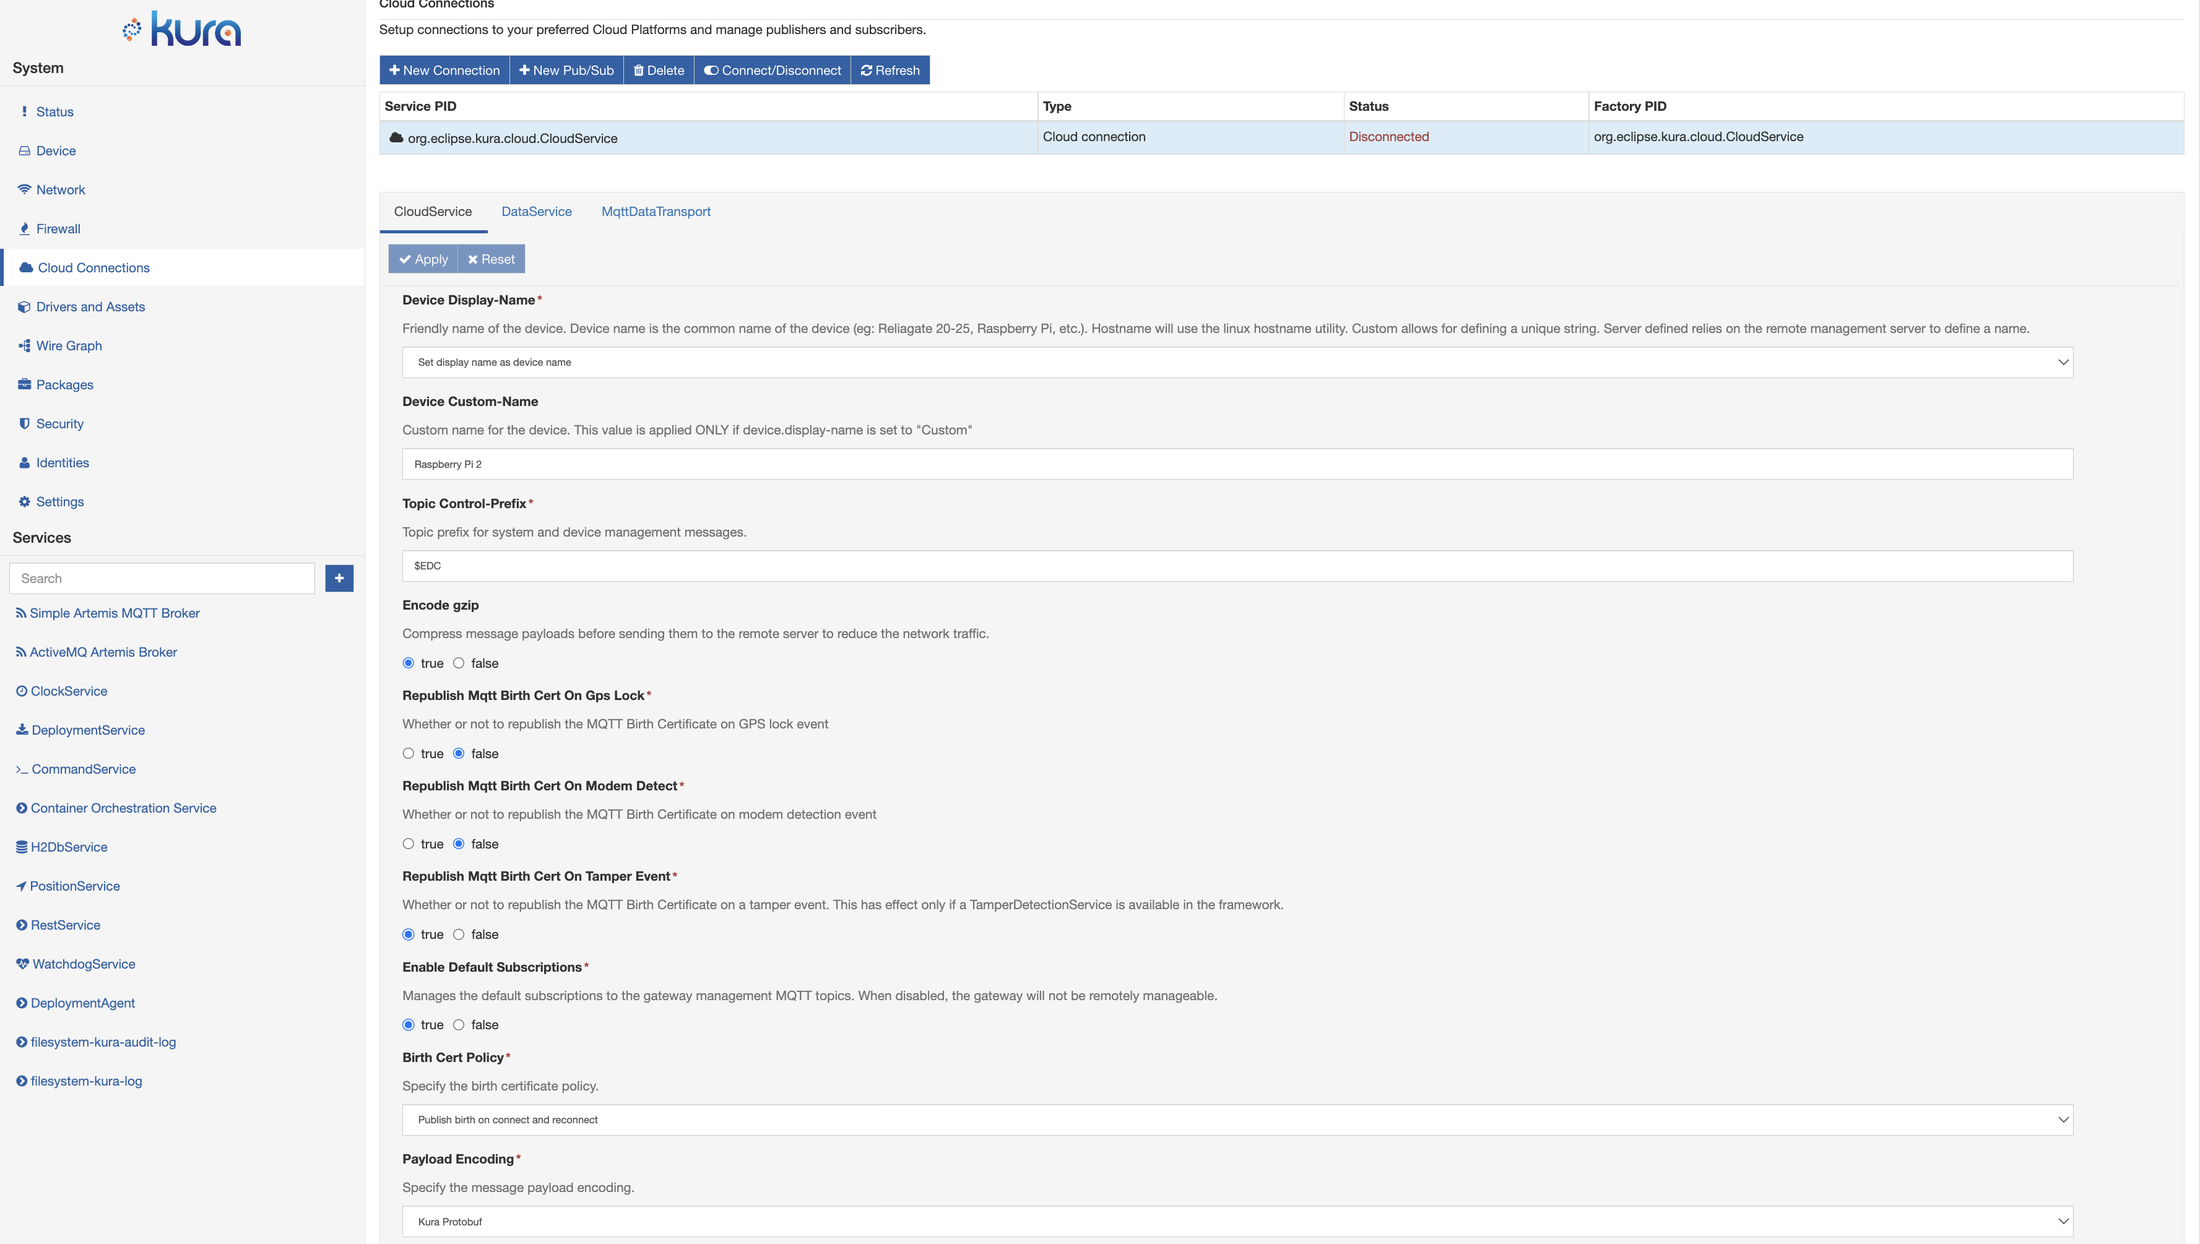
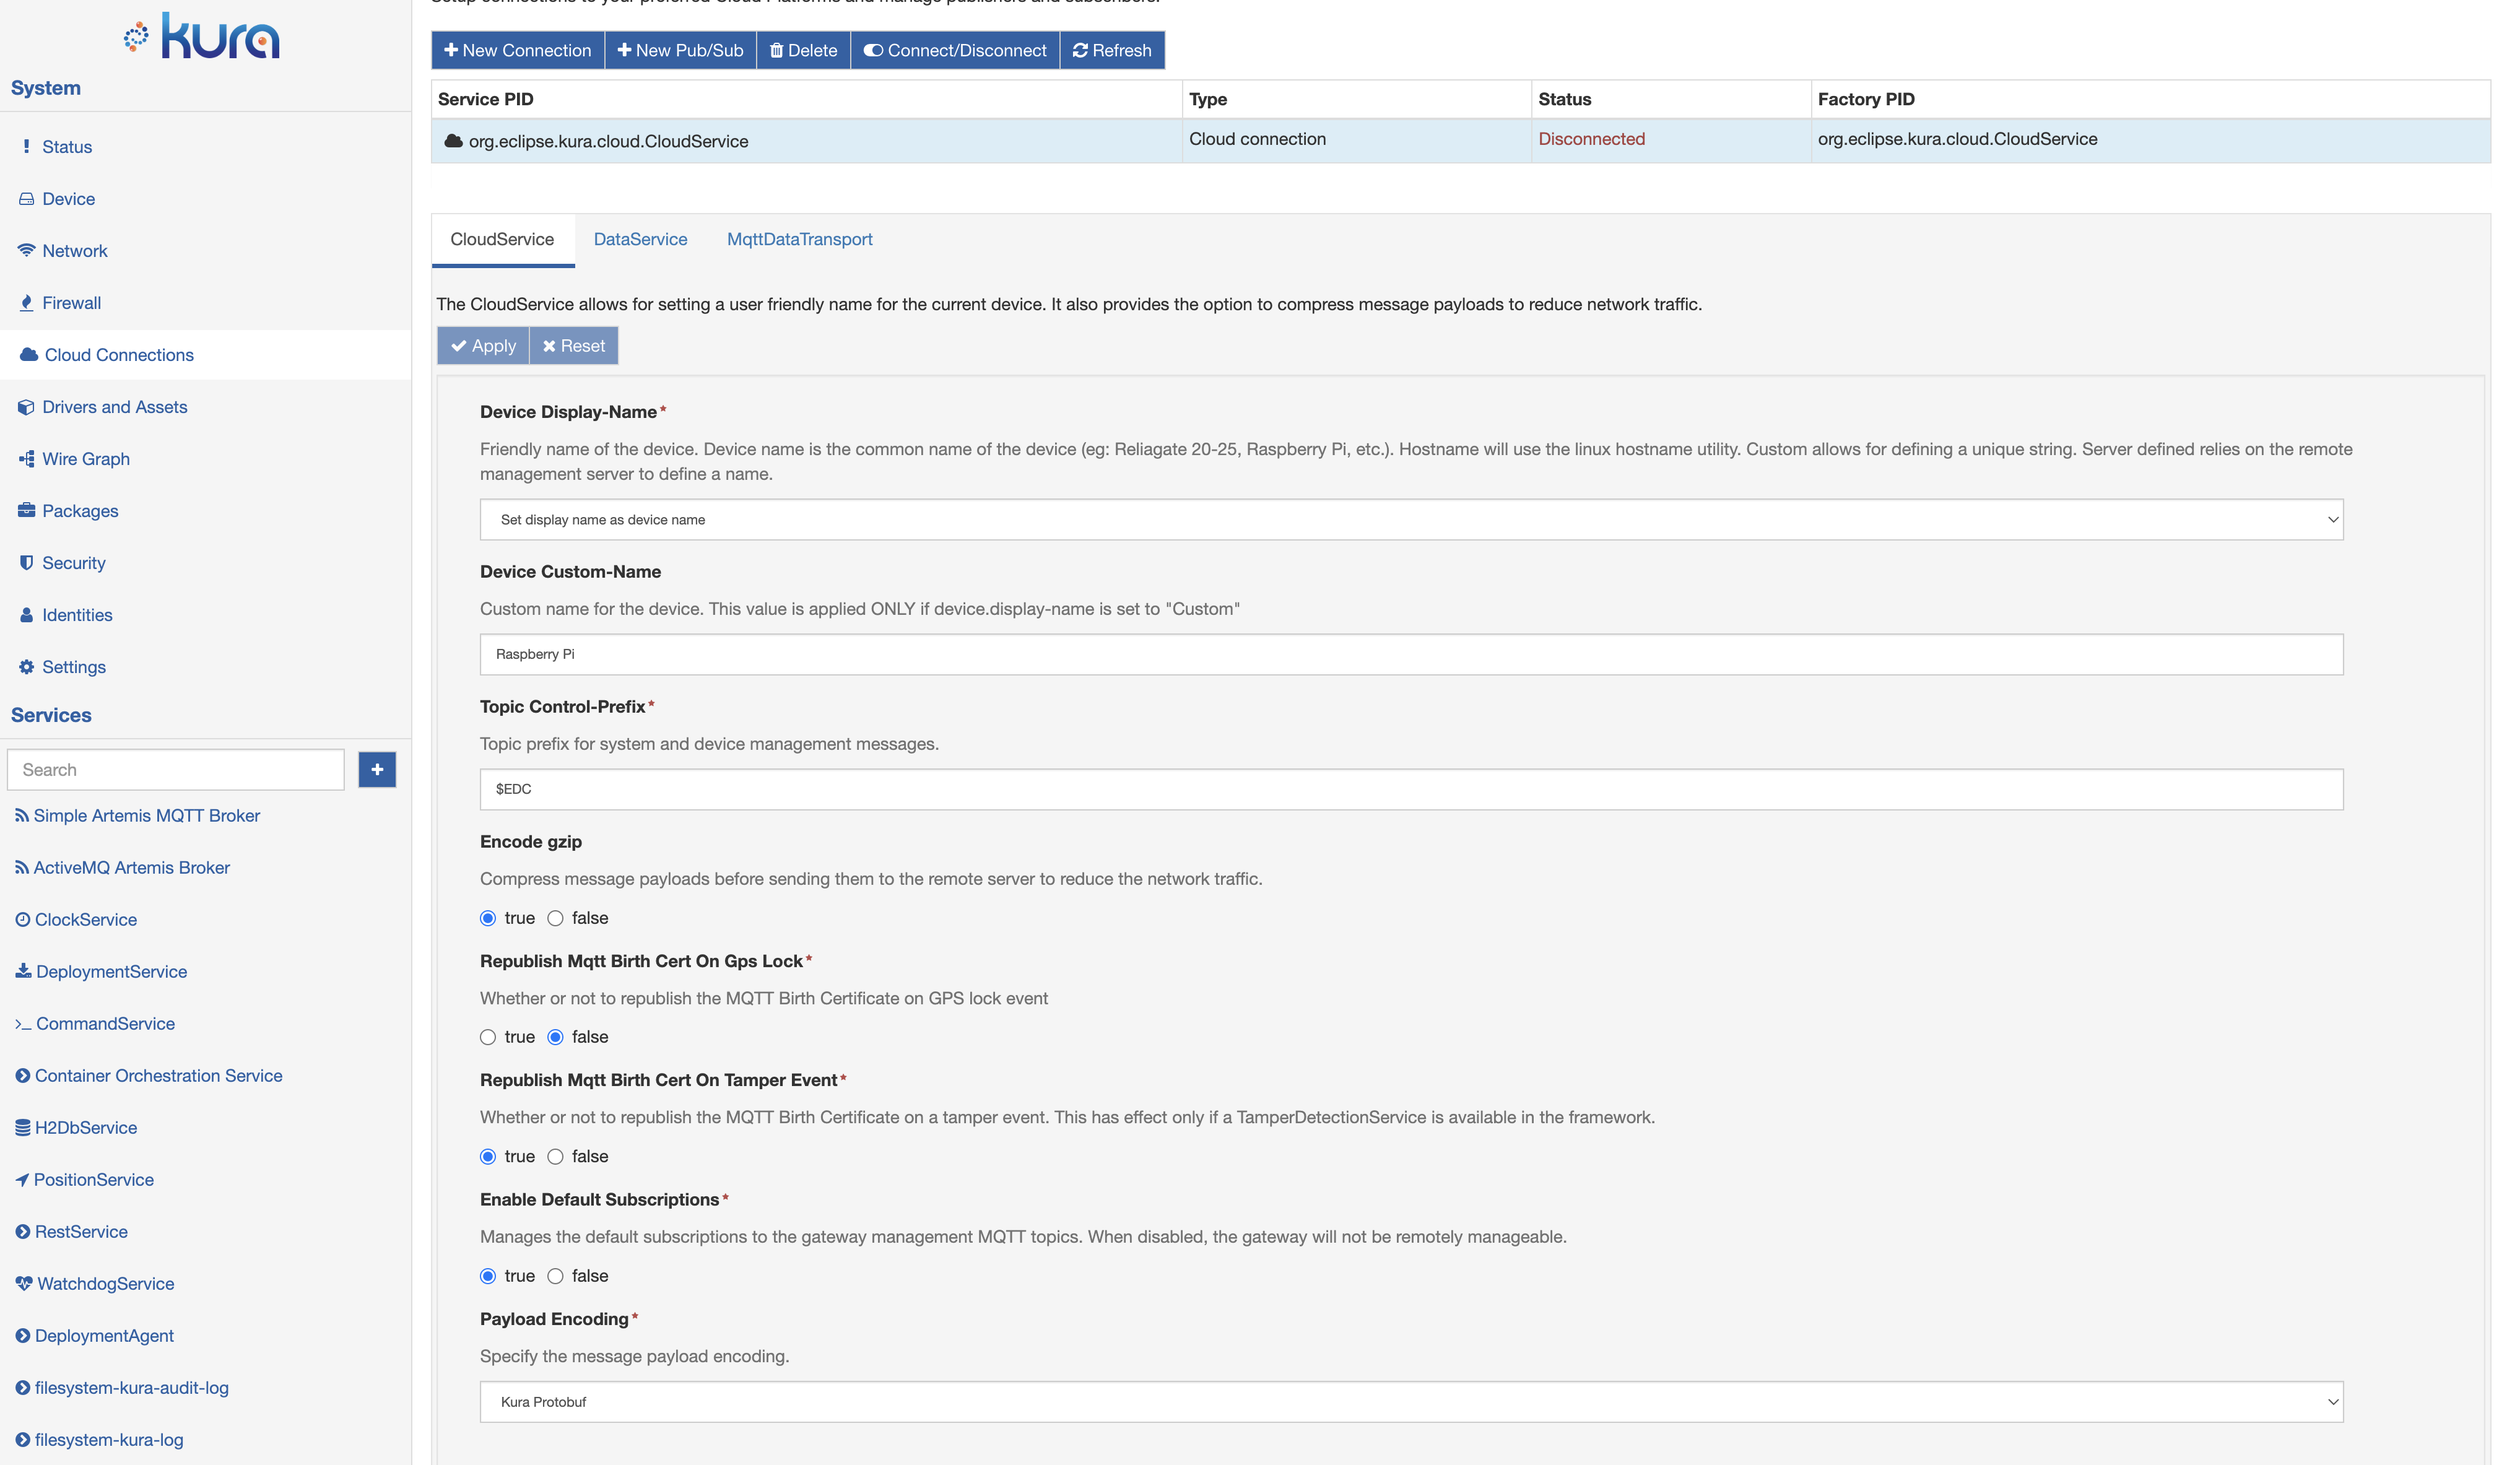
docs: removed republish.mqtt.birth.cert.on.modem.detect option

diff --git a/docs/gateway-configuration/cloud-service-configuration.md b/docs/gateway-configuration/cloud-service-configuration.md
@@ -28,8 +28,6 @@ The **CloudService** provides the following configuration parameters:
 
 - **republish.mqtt.birth.cert.on.gps.lock**: when set to true, forces a republish of the MQTT Birth Certificate when a GPS correct position lock is received. The device is then registered with its real coordinates. (Required field).
 
-- **republish.mqtt.birth.cert.on.modem.detect**: when set to true, forces a republish of the MQTT Birth Certificate when the service receives a modem detection event. This functionality is currently not supported on devices configured to use [NetworkManager](https://networkmanager.dev), in this case the property value is ignored. (Required field).
-
 - **enable.default.subscriptions**: manages the default subscriptions to the gateway management MQTT topics. When disabled, the gateway will not be remotely manageable.
 
 - **payload.encoding**: specifies the encoding for the messages sent by the specific CloudService instance. 
@@ -67,4 +65,4 @@ The default CloudService implementations publishes the following [lifecycle mess
 
 1. [BIRTH message](https://github.com/eclipse/kura/blob/develop/kura/org.eclipse.kura.api/src/main/java/org/eclipse/kura/message/KuraBirthPayload.java): sent immediately when device is connected to the cloud platform;
 2. [DISCONNECT message](https://github.com/eclipse/kura/blob/develop/kura/org.eclipse.kura.api/src/main/java/org/eclipse/kura/message/KuraDisconnectPayload.java): sent immediately before device is disconnected from the cloud platform;
-3. delayed [BIRTH message](https://github.com/eclipse/kura/blob/develop/kura/org.eclipse.kura.api/src/main/java/org/eclipse/kura/message/KuraBirthPayload.java): sent when new cloud application handler becomes available, a DP is installed or removed, GPS position is locked (can be disabled), or when modem status changes (can be disabled). These messages are cached for 30 seconds before sending. If no other message of such type arrives the message is sent; otherwise the BIRTH is cached and the timeout restarts. This is to avoid sending multiple messages when the framework starts.
+3. delayed [BIRTH message](https://github.com/eclipse/kura/blob/develop/kura/org.eclipse.kura.api/src/main/java/org/eclipse/kura/message/KuraBirthPayload.java): sent when new cloud application handler becomes available, a DP is installed or removed, or when the GPS position is locked (can be disabled). These messages are cached for 30 seconds before sending. If no other message of such type arrives the message is sent; otherwise the BIRTH is cached and the timeout restarts. This is to avoid sending multiple messages when the framework starts.
